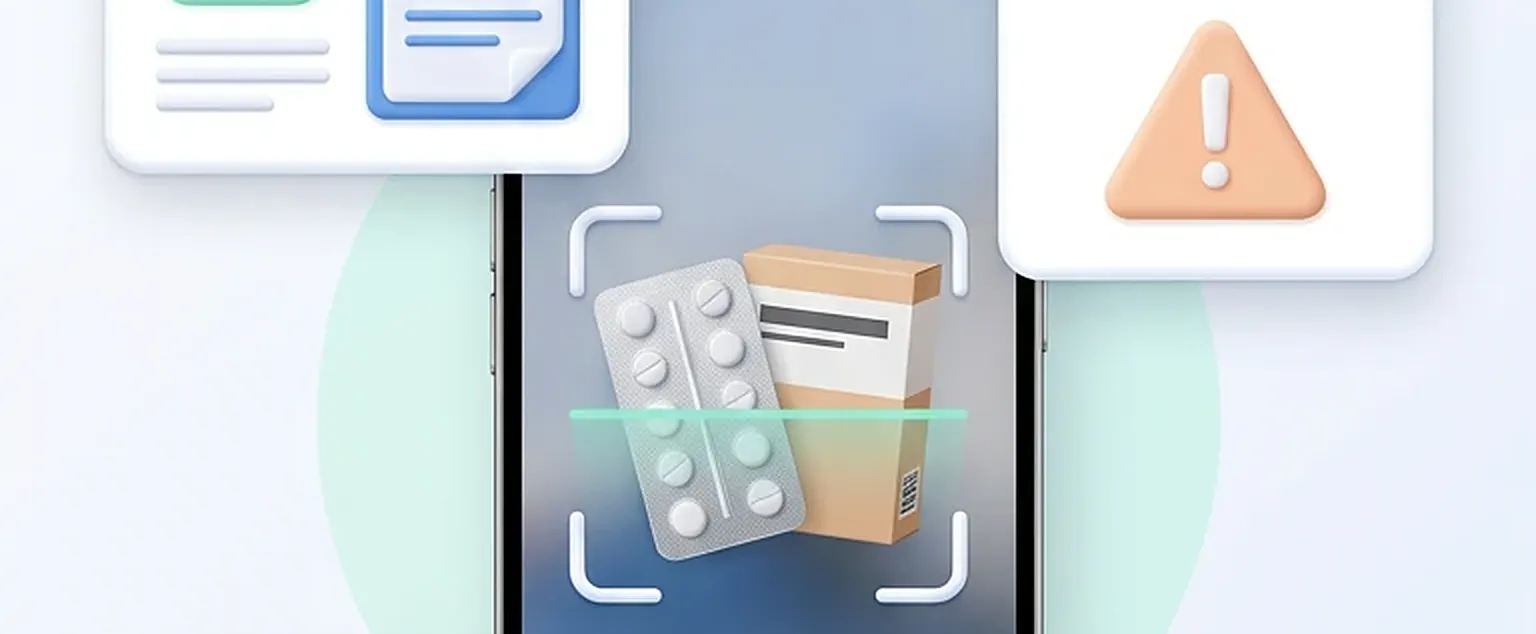
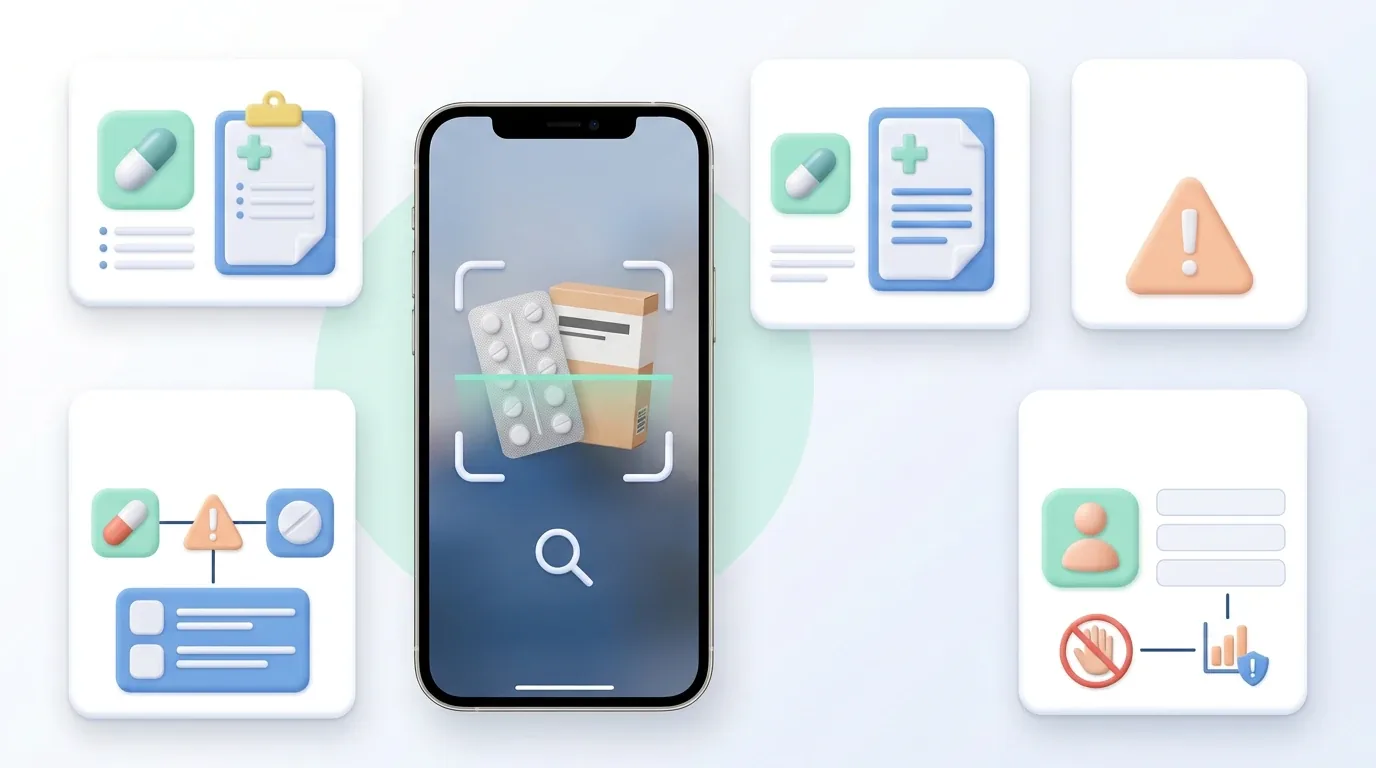
Home: switch the hero to the new landscape illustration
The text-free 16:9 image (28 KB WebP) replaces the earlier crop. The
phone sits left of centre, so the image is anchored left on narrow
screens; on wide screens the hero is 330px tall to show more of it.

Claude-Session: https://claude.ai/code/session_01PMQb5WxK8ZX1LzaKkAybC7

diff --git a/css/styles.css b/css/styles.css
@@ -260,10 +260,10 @@ main.container { outline: none; min-height: 60vh; padding-bottom: 1rem; }
 
 /* ---------- picture-first home ---------- */
 .home-hero { margin: -1rem -1rem 0; height: 250px; background: #eef4f8; overflow: hidden; }
-.home-hero img { display: block; width: 100%; height: 100%; object-fit: cover; object-position: 50% 45%; }
+.home-hero img { display: block; width: 100%; height: 100%; object-fit: cover; object-position: 6% 45%; }
 .home-sheet { position: relative; margin: -28px -1rem 0; padding: 1.35rem 1rem 0; background: var(--bg); border-radius: 28px 28px 0 0; }
 @media (min-width: 42rem) {
-  .home-hero { margin: 0; border-radius: var(--radius-lg); }
+  .home-hero { margin: 0; height: 330px; border-radius: var(--radius-lg); }
   .home-sheet { margin: -28px 0 0; }
 }
 .home-title { font-size: 1.6rem; margin: 0 0 1rem; outline: none; }

diff --git a/js/app.js b/js/app.js
@@ -1173,7 +1173,7 @@ Write every human-readable value in ${aiLanguageName()}, in short simple sentenc
     const recent = state.recent.map(drugById).filter(Boolean);
     const ixCount = state.ixList.length;
     app.innerHTML = `
-      <div class="home-hero"><img src="img/home-hero.webp" alt="" width="1536" height="634" decoding="async" fetchpriority="high"></div>
+      <div class="home-hero"><img src="img/home-hero.webp" alt="" width="1376" height="768" decoding="async" fetchpriority="high"></div>
       <div class="home-sheet">
         <h1 class="home-title" tabindex="-1">${esc(t('homeTitle'))}</h1>
         <div class="pic-actions">
